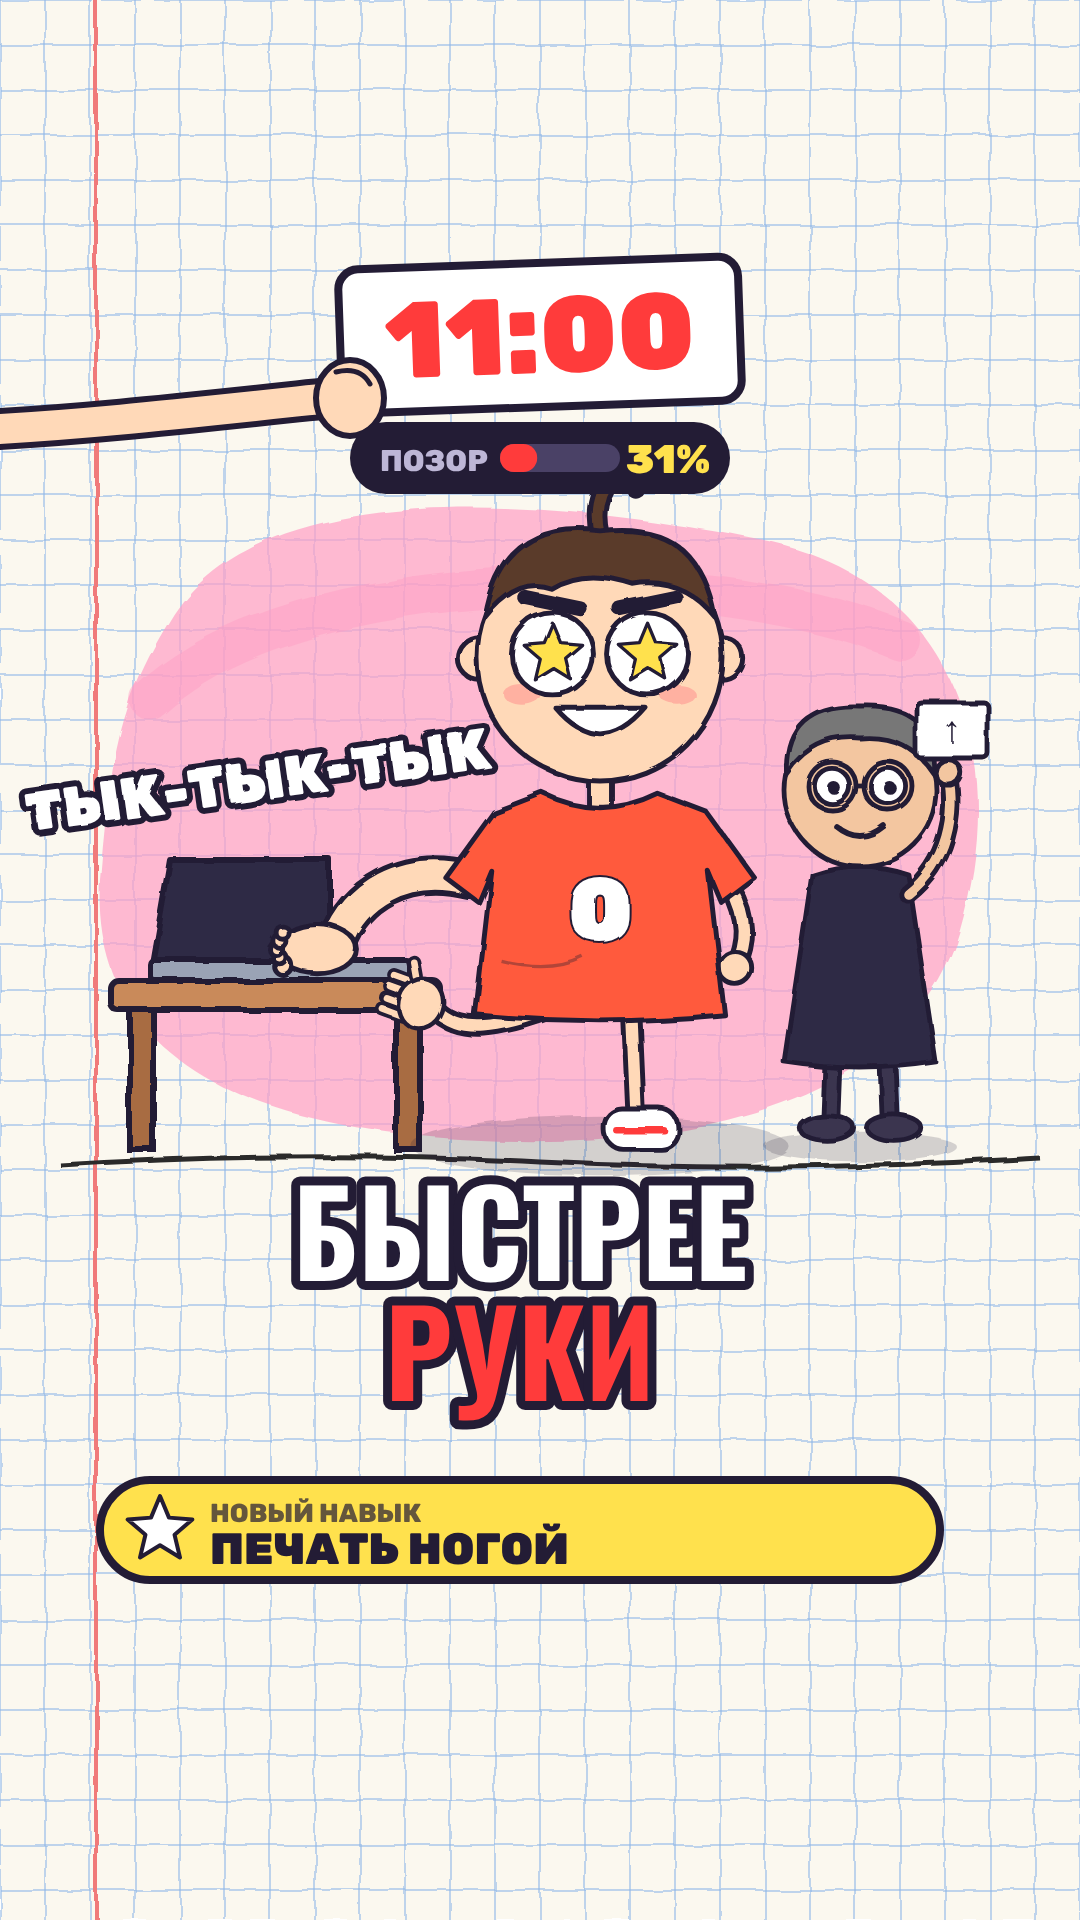
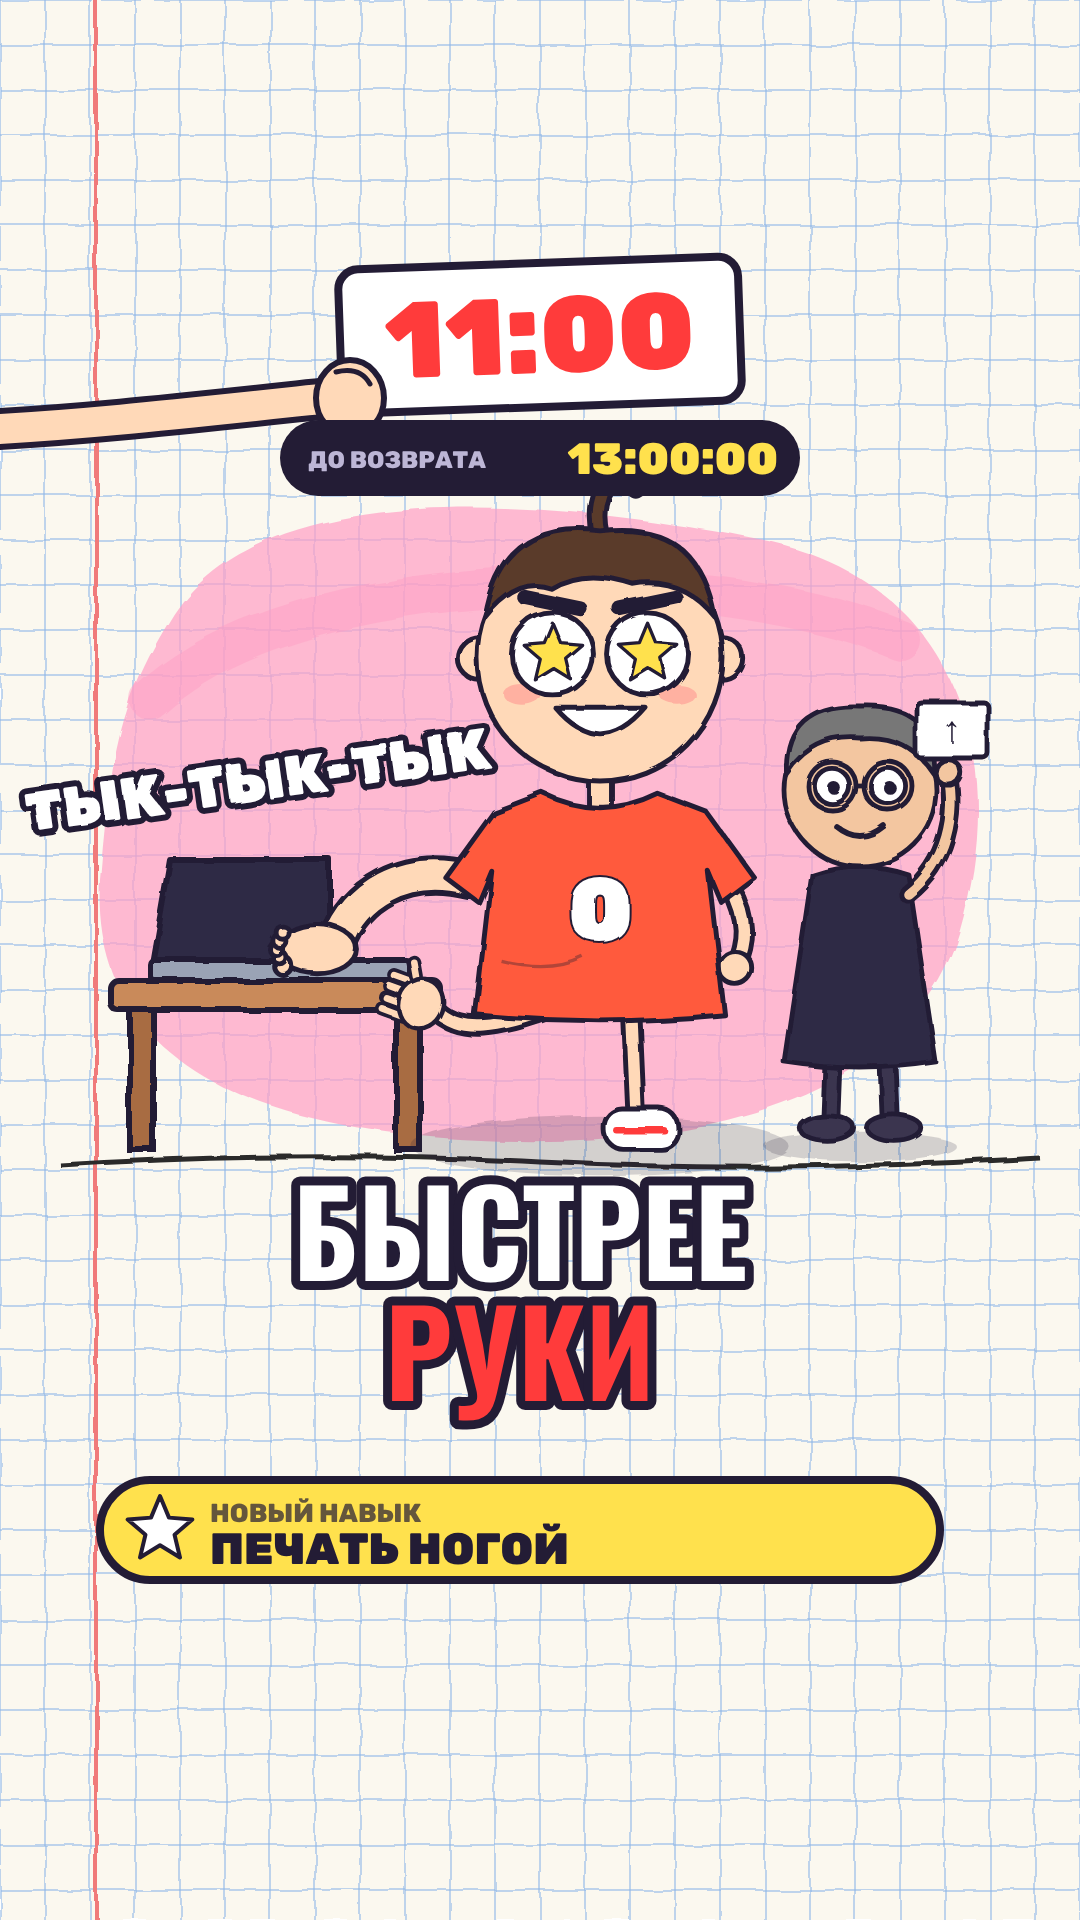
swap1: countdown timer instead of shame meter, epaulette and canteen frames
Claude-Session: https://claude.ai/code/session_011LggaPfuq63mYBEmk7bgMy

Changed region(s): [[0.2444, 0.2188, 0.7639, 0.2812]]

diff --git a/swap1/render/style.js b/swap1/render/style.js
@@ -4,11 +4,9 @@ function timeCard(txt) {
     ${T(0, 38, txt, 108, RED)}</g>${noodle("M-20 430 C80 425 170 415 330 398", 30)}
     <ellipse cx="350" cy="398" rx="34" ry="38" fill="${SKIN}" stroke="${O}" stroke-width="${SW}"/><path d="M336 372 q24 -6 34 12" stroke="${O}" stroke-width="5" fill="none" stroke-linecap="round"/>`;
 }
-function shame(p) {
-  return `<g transform="translate(540,458)"><rect x="-190" y="-36" width="380" height="72" rx="36" fill="${O}"/>
-    ${T(-160, 13, "ПОЗОР", 30, "#BDB6D6", "Rubik", 800, "start")}
-    <rect x="-40" y="-14" width="120" height="28" rx="14" fill="#4A4166"/><rect x="-40" y="-14" width="${120 * p / 100}" height="28" rx="14" fill="${RED}"/>
-    ${T(170, 15, p + "%", 40, YEL, "Rubik", 900, "end")}</g>`;
+function countdown(txt, red = false) {
+  return `<g transform="translate(540,458)"><rect x="-260" y="-38" width="520" height="76" rx="38" fill="${O}"/>
+    ${T(-232, 10, "ДО ВОЗВРАТА", 24, "#BDB6D6", "Rubik", 800, "start")}${T(238, 16, txt, 44, red ? RED : YEL, "Rubik", 900, "end")}</g>`;
 }
 function ach(top, text) {
   return `<g transform="translate(520,1530)"><rect x="-420" y="-50" width="840" height="100" rx="50" fill="${YEL}" stroke="${O}" stroke-width="${SW + 2}"/>
@@ -29,7 +27,7 @@ const STILLS = {
     s += hero({ x: 470, y: 1150, s: 0.84, build: "swap", eyes: "dots", brows: "raised", mouth: "o", cowlick: "spiral" }).svg;
     s += sticker(330, 560, 6, "НОГА", 60) + arrow("M260 590 Q240 620 230 640", "M218 620 L230 644 L250 628");
     s += sticker(180, 1095, -6, "РУКА", 60) + arrow("M200 1050 Q220 1030 245 1020", "M222 1012 L248 1018 L236 1042");
-    return wob(s) + timeCard("07:00") + shame(12) + subs([[{ t: "ПОМЕНЯЛИСЬ" }], [{ t: "МЕСТАМИ", red: true }]]);
+    return wob(s) + timeCard("07:00") + countdown("17:00:00") + subs([[{ t: "ПОМЕНЯЛИСЬ" }], [{ t: "МЕСТАМИ", red: true }]]);
   },
   // 2. Метро 09:00
   "02_metro_0900": () => {
@@ -41,7 +39,7 @@ const STILLS = {
     s += hero({ x: 600, y: 1150, s: 0.82, build: "swap", pose: "kick", eyes: "normal", look: -1, brows: "sad", mouth: "flat", cowlick: "down" }).svg;
     s += person({ x: 900, y: 1150, s: 0.72, body: "#E8607A", hat: "scarf", faceType: "happy" });
     s += sfxText(200, 640, -12, "БАЦ!", 100, YEL);
-    return wob(s) + timeCard("09:00") + shame(47) + ach("ДОСТИЖЕНИЕ", "ТЕБЕ УСТУПИЛИ МЕСТО") + subs([[{ t: "КРОССОВКОМ" }], [{ t: "В ЛИЦО", red: true }]]);
+    return wob(s) + timeCard("09:00") + countdown("15:00:00") + ach("ДОСТИЖЕНИЕ", "ТЕБЕ УСТУПИЛИ МЕСТО") + subs([[{ t: "КРОССОВКОМ" }], [{ t: "В ЛИЦО", red: true }]]);
   },
   // 3. Работа 11:00
   "03_work_1100": () => {
@@ -51,7 +49,28 @@ const STILLS = {
     s += hero({ x: 600, y: 1150, s: 0.82, build: "swap", pose: "type", eyes: "star", brows: "proud", mouth: "grin", cowlick: "up" }).svg;
     s += person({ x: 860, y: 1150, s: 0.8, body: "#2E2A44", hair: "#777", glasses: true, faceType: "happy", holding: "card", cardText: "↑" });
     s += sfxText(260, 800, -8, "ТЫК-ТЫК-ТЫК", 56, "#fff");
-    return wob(s) + timeCard("11:00") + shame(31) + ach("НОВЫЙ НАВЫК", "ПЕЧАТЬ НОГОЙ") + subs([[{ t: "БЫСТРЕЕ" }], [{ t: "РУКИ", red: true }]]);
+    return wob(s) + timeCard("11:00") + countdown("13:00:00") + ach("НОВЫЙ НАВЫК", "ПЕЧАТЬ НОГОЙ") + subs([[{ t: "БЫСТРЕЕ" }], [{ t: "РУКИ", red: true }]]);
+  },
+  // 5. 08:00 погон
+  "02b_epaulette_0800": () => {
+    let s = bgMix(PAL.mint);
+    const h = hero({ x: 470, y: 1150, s: 0.84, build: "swap", eyes: "normal", brows: "proud", mouth: "grin", cowlick: "up" });
+    s += h.svg;
+    // золотая бахрома погона на носке
+    s += `<g transform="translate(212,694)">${[0, 1, 2, 3, 4].map((i) => `<rect x="${-34 + i * 15}" y="0" width="8" height="34" rx="4" fill="${YEL}" stroke="${O}" stroke-width="3"/>`).join("")}<rect x="-40" y="-14" width="80" height="18" rx="6" fill="${YEL}" stroke="${O}" stroke-width="4"/></g>`;
+    s += mom({ x: 830, y: 1150, s: 0.86, pose: "salute" });
+    s += sticker(250, 560, -6, "ПОГОН", 56);
+    return wob(s) + timeCard("08:00") + countdown("16:00:00") + subs([[{ t: "МАМА" }, { t: "ОТДАЁТ" }], [{ t: "ЧЕСТЬ", red: true }]]);
+  },
+  // 6. 13:00 столовая
+  "03b_canteen_1300": () => {
+    let s = bgMix(PAL.pink);
+    s += `${R(110, 960, 420, 34, "#E9D3B4", 8)}${R(140, 994, 24, 160, "#A86C42")}${R(480, 994, 24, 160, "#A86C42")}
+      ${R(200, 930, 200, 30, "#C9D1E0", 6)}<ellipse cx="260" cy="926" rx="44" ry="14" fill="#fff" stroke="${O}" stroke-width="4"/><ellipse cx="350" cy="922" rx="34" ry="16" fill="#C98A5A" stroke="${O}" stroke-width="4"/>`;
+    s += hero({ x: 560, y: 1150, s: 0.82, build: "swap", pose: "type", eyes: "dots", brows: "raised", mouth: "o", cowlick: "spiral" }).svg;
+    s += person({ x: 850, y: 1150, s: 0.86, body: "#2E2A44", hat: "cap", faceType: "calm", skin: "#E8B48F" }) + T(850, 1150 - 0.86 * 230, "ОХРАНА", 24, "#fff");
+    s += noodle("M800 900 C760 880 720 870 680 860", 14, "#E8B48F") + C(675, 858, 18, "#E8B48F");
+    return wob(s) + timeCard("13:00") + countdown("11:00:00") + subs([[{ t: "ОХРАНА", red: true }], [{ t: "ВЫВОДИТ" }]]);
   },
   // 4. Финал: сообщение от девушки
   "04_twist_message": () => {
@@ -63,7 +82,7 @@ const STILLS = {
       <rect x="-165" y="-100" width="330" height="170" rx="26" fill="#fff" stroke="${O}" stroke-width="4"/>
       ${T(-140, -50, "Верни ногу.", 34, O, "Rubik", 800, "start")}${T(-140, -6, "С ней ты был", 34, O, "Rubik", 800, "start")}${T(-140, 38, "интереснее", 34, O, "Rubik", 800, "start")}
       ${T(150, 100, "00:01", 24, "#8A8AA0", "Rubik", 800, "end")}</g>`;
-    return wob(s) + timeCard("00:01") + shame(0) + subs([[{ t: "ВЕРНИ" }, { t: "НОГУ", red: true }]]);
+    return wob(s) + timeCard("00:00") + countdown("00:00:00", true) + subs([[{ t: "ВЕРНИ" }, { t: "НОГУ", red: true }]]);
   },
 };
 window.renderStill = (k) => { document.getElementById("root").innerHTML = `<svg xmlns="http://www.w3.org/2000/svg" width="${W}" height="${H}" viewBox="0 0 ${W} ${H}">${DEFS}${STILLS[k]()}</svg>`; };

diff --git a/swap1/render/draw.js b/swap1/render/draw.js
@@ -206,6 +206,9 @@ function mom({ x, y, s = 1, pose = "jar", scared = false, jarSticker = 1 }) {
       ${at(10, -2, jarSticker, `<g transform="translate(10,-2) rotate(-8)"><rect x="-75" y="-34" width="150" height="66" fill="#FFF6D8" stroke="${O}" stroke-width="4"/>
         <rect x="-30" y="-46" width="60" height="22" fill="#fff" opacity=".7" transform="rotate(6)"/>${T(0, 18, "МУКА", 54, RED, "Caveat", 700)}</g>`)}
     </g>${C(-95, -290, 22, SKIN)}${C(95, -290, 22, SKIN)}`;
+  } else if (pose === "salute") {
+    arms = noodle("M-115 -405 C-150 -350 -140 -300 -110 -270") + noodle("M115 -405 C175 -470 150 -570 95 -615") +
+      `${C(-110, -266, 22, SKIN)}<g transform="translate(88,-622) rotate(-35)"><rect x="-34" y="-12" width="68" height="24" rx="12" fill="${SKIN}" stroke="${O}" stroke-width="5"/></g>`;
   } else { // половник
     arms = noodle("M-115 -405 C-150 -350 -140 -300 -100 -290") + noodle("M115 -405 C170 -420 190 -470 175 -520") +
       `<path d="M175 -520 L175 -700" stroke="#9AA3B5" stroke-width="16" stroke-linecap="round"/><path d="M175 -520 L175 -700" stroke="${O}" stroke-width="4" stroke-linecap="round" opacity=".5"/>
